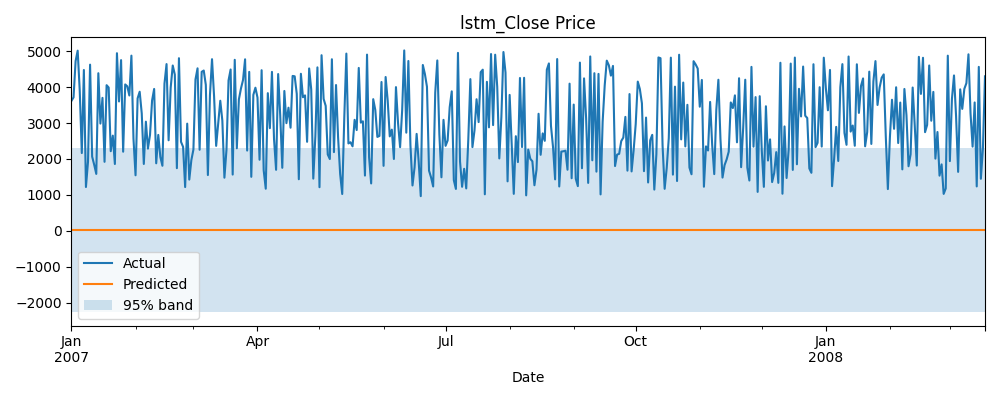
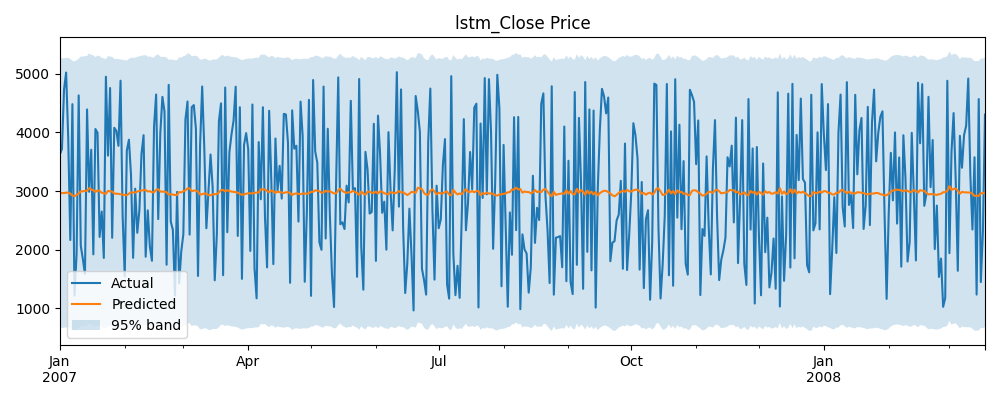
04 LSTM updates

diff --git a/04_models.py b/04_models.py
@@ -144,23 +144,109 @@ def main():
                         lr_pred = pd.Series(lr.predict(X_test), index=X_test.index)
                         pd.DataFrame({"y_true": y_test.loc[lr_pred.index], "y_pred": lr_pred}).to_parquet(os.path.join(OUT_DIR, f"linlags_{target}.parquet"))
 
-                # LSTM (optional)
+                # LSTM (fixed: proper scaling + clean date comparison + time-series-aware training)
                 if TF_OK:
                     try:
-                        X, y = build_sequences(series.astype(float).dropna(), lookback=args.lookback, horizon=1)
-                        dates = series.index[args.lookback:args.lookback+len(y)]
-                        X_train, y_train_dl = X[dates < np.datetime64(args.split_date)], y[dates < np.datetime64(args.split_date)]
-                        X_test, y_test_dl = X[dates >= np.datetime64(args.split_date)], y[dates >= np.datetime64(args.split_date)]
-                        dates_test = dates[dates >= np.datetime64(args.split_date)]
-                        if len(X_train) > 50 and len(X_test) > 0:
-                            model = Sequential([LSTM(32, input_shape=(X_train.shape[1], 1)), Dense(1)])
-                            model.compile(optimizer="adam", loss="mse")
-                            cb = EarlyStopping(monitor="val_loss", patience=5, restore_best_weights=True)
-                            model.fit(X_train[..., None], y_train_dl, validation_split=0.2, epochs=args.epochs, batch_size=args.batch, callbacks=[cb], verbose=0)
-                            y_pred_dl = model.predict(X_test[..., None], verbose=0).ravel()
-                            pd.DataFrame({"y_true": y_test_dl, "y_pred": y_pred_dl}, index=dates_test).to_parquet(os.path.join(OUT_DIR, f"lstm_{target}.parquet"))
+                        # 1) Full series, sorted, no NaNs
+                        series_full = df[target].astype(float).sort_index().dropna()
+
+                        # Use pandas Timestamp, not datetime.date / np.datetime64 mix
+                        split_dt = pd.to_datetime(args.split_date)
+
+                        series_train = series_full[series_full.index < split_dt]
+                        series_test  = series_full[series_full.index >= split_dt]
+
+                        # Need enough points to build sequences
+                        if len(series_train) > args.lookback + 10 and len(series_test) > 0:
+                            # 2) Scale using TRAIN stats only
+                            mu = series_train.mean()
+                            sigma = series_train.std()
+                            if sigma == 0 or np.isnan(sigma):
+                                sigma = 1.0
+
+                            series_train_s = (series_train - mu) / sigma
+                            series_test_s  = (series_test - mu) / sigma
+
+                            def make_sequences(s: pd.Series, lookback: int):
+                                vals = s.values.astype("float32")
+                                Xs, ys, idxs = [], [], []
+                                for i in range(lookback, len(vals)):
+                                    Xs.append(vals[i - lookback:i])
+                                    ys.append(vals[i])
+                                    idxs.append(s.index[i])
+                                return np.array(Xs), np.array(ys), np.array(idxs)
+
+                            # 3) Build training sequences
+                            X_train_dl, y_train_dl, dates_train = make_sequences(
+                                series_train_s, args.lookback
+                            )
+
+                            # 4) Build test sequences with train tail as context
+                            tail_for_context = series_train_s.iloc[-args.lookback:]
+                            test_with_context = pd.concat([tail_for_context, series_test_s])
+                            X_all_test, y_all_test, dates_all_test = make_sequences(
+                                test_with_context, args.lookback
+                            )
+
+                            # Keep only the sequences whose target date >= split_dt (true test)
+                            mask_test = dates_all_test >= split_dt
+                            X_test_dl  = X_all_test[mask_test]
+                            y_test_dl  = y_all_test[mask_test]
+                            dates_test = dates_all_test[mask_test]
+
+                            if len(X_train_dl) > 50 and len(X_test_dl) > 0:
+                                model = Sequential(
+                                    [
+                                        LSTM(32, input_shape=(X_train_dl.shape[1], 1)),
+                                        Dense(1),
+                                    ]
+                                )
+                                model.compile(optimizer="adam", loss="mse")
+
+                                # Time-based validation: last 10% of training data
+                                val_idx = int(len(X_train_dl) * 0.9)
+                                X_tr, X_val = X_train_dl[:val_idx], X_train_dl[val_idx:]
+                                y_tr, y_val = y_train_dl[:val_idx], y_train_dl[val_idx:]
+
+                                cb = EarlyStopping(
+                                    monitor="val_loss",
+                                    patience=5,
+                                    restore_best_weights=True,
+                                )
+
+                                model.fit(
+                                    X_tr[..., None],
+                                    y_tr,
+                                    validation_data=(X_val[..., None], y_val),
+                                    epochs=args.epochs,
+                                    batch_size=args.batch,
+                                    callbacks=[cb],
+                                    verbose=0,
+                                    shuffle=False,  # critical for time series
+                                )
+
+                                # 5) Predict in scaled space, then unscale
+                                y_pred_scaled = model.predict(X_test_dl[..., None], verbose=0).ravel()
+                                y_true_scaled = y_test_dl
+
+                                y_pred = y_pred_scaled * sigma + mu
+                                y_true = y_true_scaled * sigma + mu
+
+                                pd.DataFrame(
+                                    {"y_true": y_true, "y_pred": y_pred},
+                                    index=dates_test,
+                                ).to_parquet(
+                                    os.path.join(OUT_DIR, f"lstm_{target}.parquet")
+                                )
+                                print(f"[OK] LSTM predictions saved for {target}")
+                            else:
+                                print("[Warn] Not enough sequences for LSTM after splitting.")
+                        else:
+                            print("[Warn] Not enough data for LSTM (train/test) on target:", target)
                     except Exception as e:
                         print("[Warn] LSTM training skipped:", e)
+
+
         else:
             print("[Warn] Target series too short for univariate models.")
     else:
